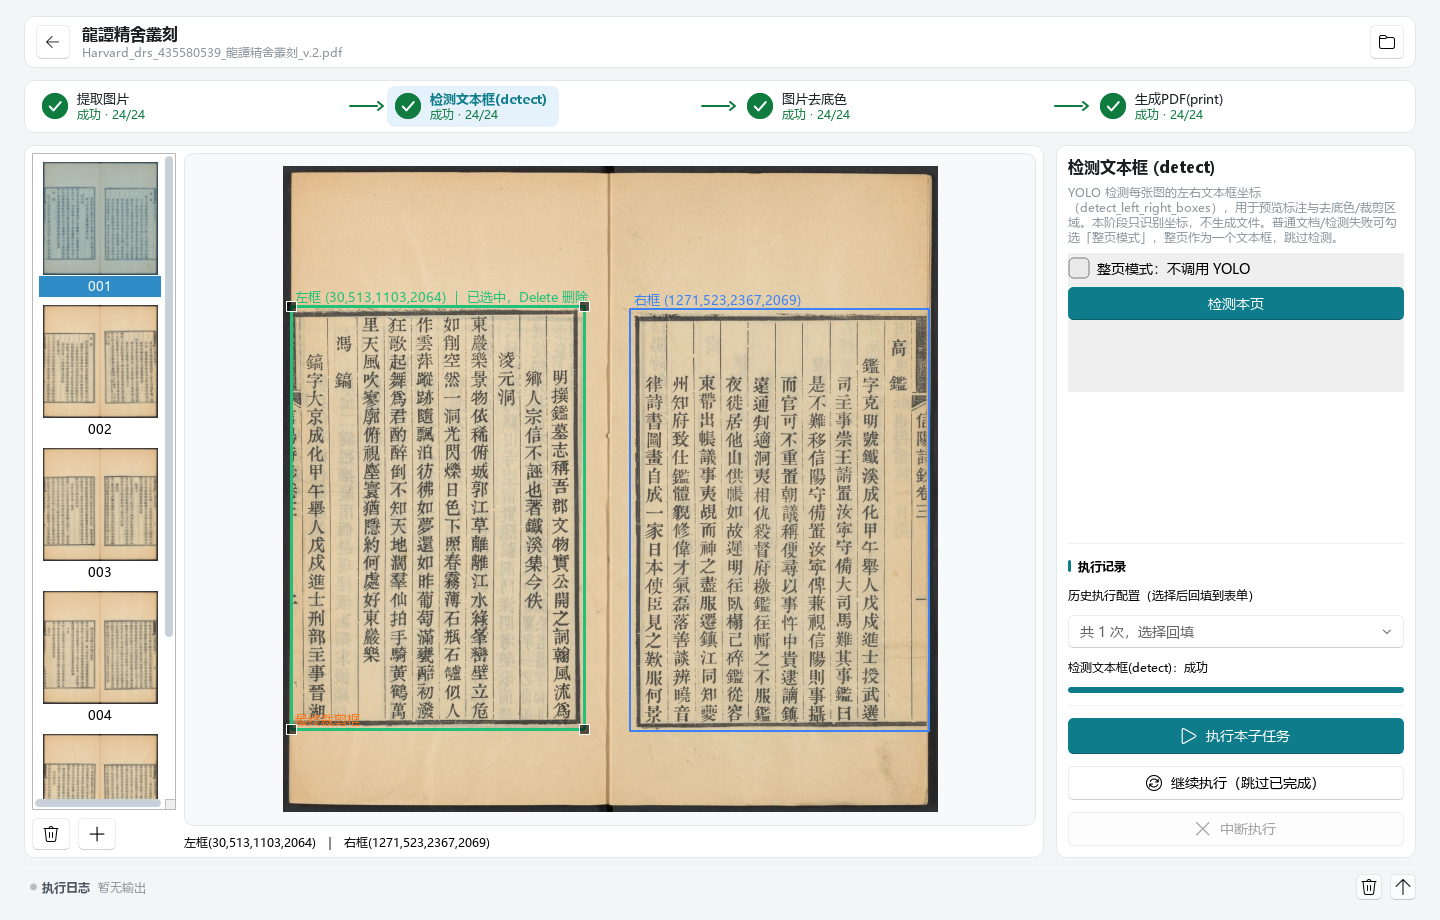
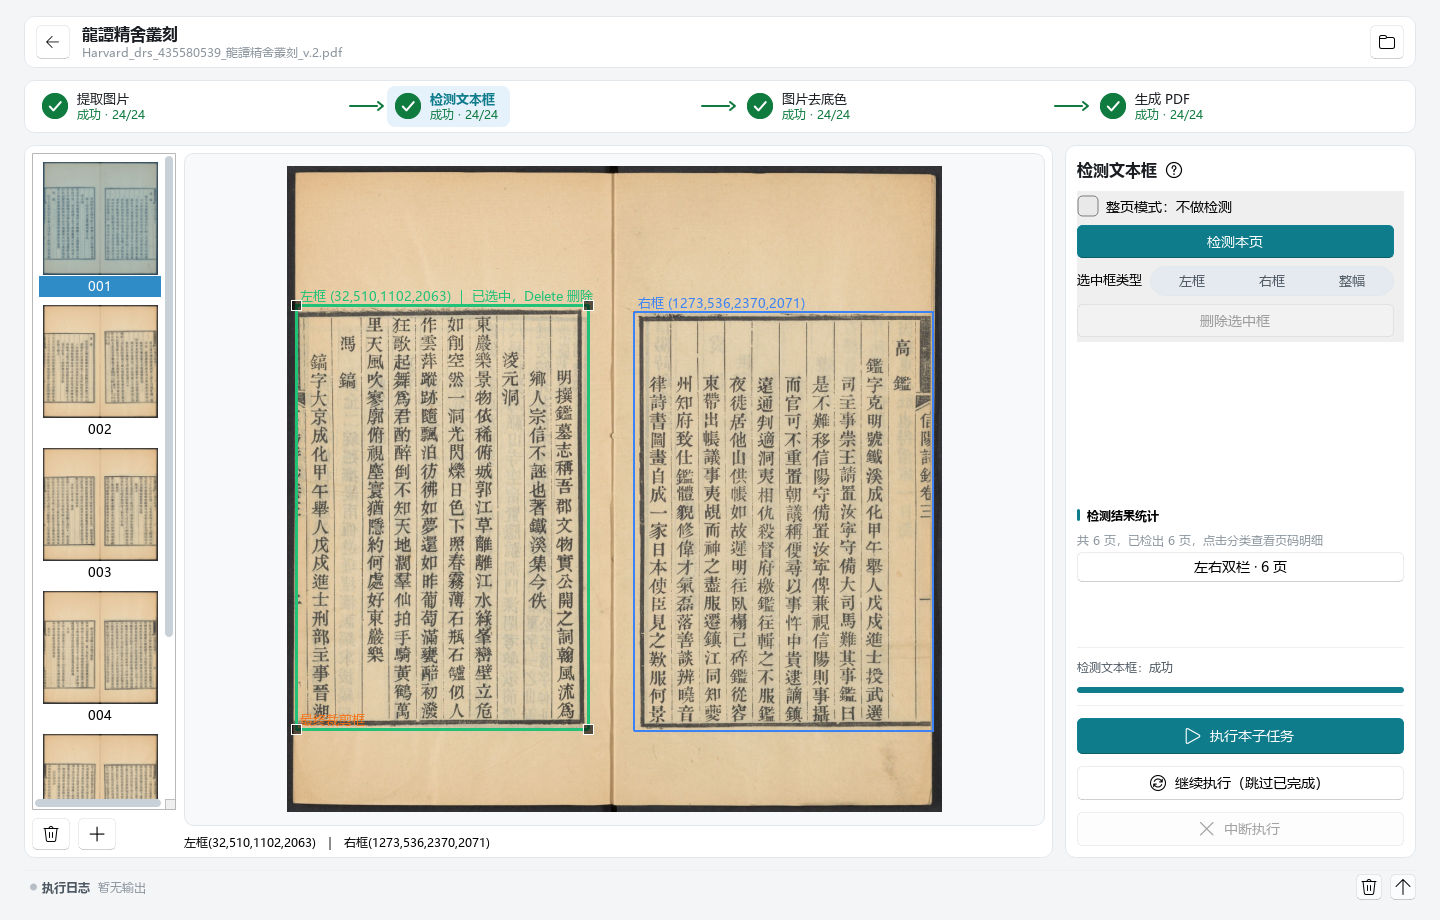
doc: update user guide image

diff --git a/tests/gui_shot.py b/tests/gui_shot.py
@@ -536,6 +536,85 @@ def wait_for_thumbnails(
     return False
 
 
+def wait_view_ready(app, view, timeout: float = 30.0) -> bool:
+    """等异步大图加载完成：选页/改参数会先 clear_image 占位（has_image=False），
+    worker 算完 set_image 后变 True。轮询该判据，避免拍到「正在加载/正在去底色」。
+
+    ⚠ 大图加载是 PreviewWorker 后台线程，只 pump 固定次数会拍到转圈占位文案
+    （s3-去底色-参数 曾因此整张图没有预览内容）。
+    """
+    start = time.time()
+    while time.time() - start < timeout:
+        app.processEvents()
+        time.sleep(0.05)
+        if getattr(view, "has_image", False):
+            app.processEvents()
+            return True
+    print(f"⚠ 大图加载等待超时（{timeout:.0f}s）")
+    return False
+
+
+def wait_view_reload(app, view, timeout: float = 30.0, clear_wait: float = 4.0) -> bool:
+    """等一轮「清空占位 → 重新上屏」完整发生。
+
+    ⚠ 改 rembg 参数走 `LIVE_DEBOUNCE_MS`（350ms）防抖才触发重算——直接等
+    has_image 会被**还没被清掉的旧图**骗过（立即返回 True，拍到旧态/转圈页）。
+    所以必须先见到 clear，再等新图；clear_wait 内始终没清空就当作无重算，
+    以当前图在位为准。
+    """
+    start = time.time()
+    cleared = not getattr(view, "has_image", False)
+    while not cleared and time.time() - start < clear_wait:
+        app.processEvents()
+        time.sleep(0.05)
+        cleared = not getattr(view, "has_image", False)
+    return wait_view_ready(app, view, timeout)
+
+
+def wait_view_settled(app, view, quiet: float = 2.5, timeout: float = 40.0) -> bool:
+    """等到预览视图**稳定**：有图、且 quiet 秒内不再发生「清空 → 重载」。
+
+    ⚠ rembg 参数变化走 350ms 防抖 + live worker + refresh_display 再一层
+    大图 worker，多层异步会连环 clear/上屏；只等「首次有图」会停在中间层，
+    拍到「正在加载...」（真踩过）。这里要求 has_image 保持 quiet 秒才算稳。
+    """
+    start = time.time()
+    last_change = time.time()
+    prev = getattr(view, "has_image", False)
+    while time.time() - start < timeout:
+        app.processEvents()
+        time.sleep(0.05)
+        has = getattr(view, "has_image", False)
+        if has != prev:
+            prev = has
+            last_change = time.time()
+        if prev and (time.time() - last_change) >= quiet:
+            app.processEvents()
+            return True
+    print(f"⚠ 预览稳定等待超时（{timeout:.0f}s）")
+    return prev
+
+
+def _wait_list_rows(app, list_page, repo, timeout: float = 15.0) -> None:
+    """等任务列表的后台读盘 worker（TaskRowsWorker）渲染出数据行。
+
+    真实数据目录可能有几十个任务、逐个读 runs.json，同步 pump 固定次数
+    会拍到空表。分页每页 10 行，行数到位即认为渲染完成。
+    """
+    table = getattr(getattr(list_page, "table", None), "table", None)
+    expected = len(repo.list_tasks()) if repo is not None else 0
+    target = min(expected, 10)
+    start = time.time()
+    while table is not None and time.time() - start < timeout:
+        app.processEvents()
+        time.sleep(0.1)
+        if target and table.rowCount() >= target:
+            app.processEvents()
+            time.sleep(0.4)  # 让状态胶囊/时间列的最后一轮刷新落定
+            return
+    app.processEvents()
+
+
 def _visible_strips(detail) -> list:
     """详情页里当前有内容的缩略图条（供 wait_for_thumbnails 使用）。
 
@@ -559,7 +638,8 @@ def _visible_strips(detail) -> list:
 # --------------------------------------------------------------- 操作步骤截图
 
 def shoot_guide(app, window, out_dir: Path, task_id: str,
-                book_title: str = "龍譚精舍叢刻") -> list[Path]:
+                book_title: str = "龍譚精舍叢刻",
+                list_repo=None, demo_repo=None) -> list[Path]:
     """按「用户操作步骤」逐屏截图，供上手指南引用。
 
     与总览模式的差别：这里刻意**制造交互态**——选中检测框、改 area、
@@ -572,6 +652,10 @@ def shoot_guide(app, window, out_dir: Path, task_id: str,
         out_dir: 输出目录（自动创建）。
         task_id: 演示任务号（全流程完整的那一条）。
         book_title: 第四步表单里填的古籍名（取真实书名）。
+        list_repo: 任务列表页用的数据仓（用户 2026-09-29 定：s0 展示真实
+            `~/Documents/guji` 里已导入的任务，不用 seed 的演示任务）。
+            None 时回退用 window 现有 store。
+        demo_repo: 详情页演示任务的仓（截完列表页换回来）。
 
     返回:
         写出的 PNG 路径列表。
@@ -603,10 +687,19 @@ def shoot_guide(app, window, out_dir: Path, task_id: str,
         print(f"已生成 {path.name}  {('— ' + note) if note else ''}")
 
     # ---- 步骤 0：任务列表页（起点）----
+    # ⚠ 列表页用**真实数据目录**（~/Documents/guji）里已导入的任务（只读展示：
+    #    TaskStore 构造只确保目录存在、refresh 只读盘，绝不写真实数据），
+    #    截完立刻换回演示数据——详情页各阶段需要 seed 铺的产物。
+    if list_repo is not None and demo_repo is not None:
+        window.store = list_repo
+        window.list_page.store = list_repo
     window.pages.setCurrentWidget(window.list_page)
     window.list_page.refresh()
-    pump(app, 10)
+    _wait_list_rows(app, window.list_page, list_repo or window.store)
     snap("s0-任务列表.png", "起点：已导入的任务")
+    if list_repo is not None and demo_repo is not None:
+        window.store = demo_repo
+        window.list_page.store = demo_repo
 
     window._open_detail(task_id)
     pump(app, 12)
@@ -620,7 +713,18 @@ def shoot_guide(app, window, out_dir: Path, task_id: str,
     extract_panel.zoom.setValue(2)
     extract_panel.ext.setCurrentText("png")
     detail.extract_tabs.setCurrentIndex(0)  # 切回 PDF 预览，展示参数与源文件对照
-    snap("s1-提取-参数.png", "第一步：调 zoom / dpi / ext 参数")
+
+    # PDF 预览翻到**第 DEMO_PAGE 页**（默认停在第 1 页——多为封面/空白页，
+    # 读者对不上正文；全手册的图都统一在同一演示页上）。选页是异步加载
+    # （先 clear 再 worker 渲染），必须等完成再截。
+    def _open_pdf_demo_page() -> None:
+        strip = detail.source_pdf_viewer.strip
+        if strip.count() >= DEMO_PAGE:
+            strip.setCurrentRow(DEMO_PAGE - 1)
+            wait_view_ready(app, detail.source_pdf_viewer.view, timeout=20)
+
+    snap("s1-提取-参数.png", "第一步：调 zoom / dpi / ext 参数",
+         before=_open_pdf_demo_page)
 
     # ---- 步骤 2：检测文本框 ----
     detail.extract_tabs.setCurrentIndex(0)
@@ -651,6 +755,11 @@ def shoot_guide(app, window, out_dir: Path, task_id: str,
     def _draw_extra_box() -> None:
         if not inner._boxes:
             return
+        # 半幅页最多左右两个框（超出会被 edit_rejected 拒掉，2026-09-29 起的
+        # 框数上限规则），先删掉右框腾出名额，再在版心下方补画——同时演示
+        # 「删除」与「手绘补充」两个操作，信息条会带「（手动）」说明。
+        if len(inner._boxes) >= 2:
+            del inner._boxes[1]
         # 以已检出的框为参照推算出画面尺寸，避免依赖具体书页尺寸
         xs = [c for box in inner._boxes for c in (box[0], box[2])]
         ys = [c for box in inner._boxes for c in (box[1], box[3])]
@@ -669,16 +778,40 @@ def shoot_guide(app, window, out_dir: Path, task_id: str,
          before=_draw_extra_box)
 
     # ---- 步骤 3：去底色 ----
+    # ⚠ s2 手绘演示把 001 的框**落库**改成了「左框 + 版心下横条」（右框被删、
+    #    横条按位置判为右框），不恢复的话第三步条目 1（001-r）就是那条横条，
+    #    预览与手册「左右分开」的描述完全对不上（真踩过）。这里重跑真实检测
+    #    写回原始框，并清掉内存缓存，再切阶段。
+    if demo_repo is not None:
+        extract_dir = demo_repo.extract_output_dir(task_id)
+        if _write_real_detect_boxes(demo_repo, task_id, extract_dir, [DEMO_PAGE]):
+            detail.detect_cache.clear()
     detail._select_stage(2)
     rembg_panel = detail.control_stack.widget(2)
     rembg_panel.area.setCurrentText("2 (合并单图)")
     rembg_panel.border.setText("20,30")
     rembg_panel.seal.setChecked(True)
     rembg_panel.type.setCurrentText("1 (二值)")
+    # ⚠ 改参数走 350ms 防抖才触发实时预览重算（先「正在按新参数去底色…」
+    #    占位，live worker 算完再 refresh_display → 又一层大图 worker 才上屏）。
+    #    要等视图**稳定**（多层异步连环 clear/上屏），否则拍到旧图/转圈页（真踩过）。
+    wait_view_settled(app, detail.rembg_viewer.view)
     snap("s3-去底色-参数.png", "第三步：area/border/印章参数")
 
     rembg_panel.area.setCurrentText("1 (左右分开)")
-    snap("s3-去底色-结果.png", "第三步：左右分开的去底色结果")
+    wait_view_settled(app, detail.rembg_viewer.view)
+
+    # area=1 后条目按「同页 r 在 l 前」重排，当前行可能停在别的页上
+    # （曾截到与演示页无关的图）。显式选中第一条（= 演示页 001 的右页），
+    # 等它的大图真正加载完再截。
+    def _select_first_rembg_entry() -> None:
+        strip = detail.rembg_viewer.strip
+        if strip.count() > 0:
+            strip.setCurrentRow(0)
+            wait_view_settled(app, detail.rembg_viewer.view)
+
+    snap("s3-去底色-结果.png", "第三步：左右分开的去底色结果",
+         before=_select_first_rembg_entry)
 
     # ---- 步骤 4：生成 PDF ----
     detail._select_stage(3)
@@ -770,6 +903,19 @@ def main() -> int:
     repo = TaskStore(root)
     task_ids = seed(repo)
 
+    # 任务列表页截图用**真实数据目录**里已导入的任务（用户 2026-09-29 定：
+    # 手册里的列表要和读者打开程序看到的一致）。只读展示，不写入；
+    # 目录不存在或没有任务时回退演示列表。
+    real_root = Path.home() / "Documents" / "guji"
+    list_repo = None
+    if real_root.is_dir() and (real_root / "tasks.json").exists():
+        probe = TaskStore(real_root)
+        if probe.list_tasks():
+            list_repo = probe
+            print(f"✓ 任务列表截图取自真实数据目录：{real_root}")
+        else:
+            print("ℹ 真实数据目录没有任务，列表页回退演示数据")
+
     # 演示主角的书名：取任务名（seed 已按真实 PDF 命名），第四步表单与日志都用它
     main_task = repo.get_task(task_ids[0]) or {}
     book_title = main_task.get("name") or "龍譚精舍叢刻"
@@ -787,7 +933,8 @@ def main() -> int:
         window._open_detail(task_ids[0])
         pump(app, 12)
         shots = shoot_guide(
-            app, window, out_dir / "guide", task_ids[0], book_title=book_title
+            app, window, out_dir / "guide", task_ids[0], book_title=book_title,
+            list_repo=list_repo, demo_repo=repo,
         )
         for path in shots:
             print(f"  {path.stat().st_size // 1024} KB")

diff --git a/desktop/pages/taskdetail/detect.py b/desktop/pages/taskdetail/detect.py
@@ -27,6 +27,13 @@ from desktop.utils.files import project_root
 #: 框类型键 → 中文标签。文案的唯一来源是 utils/box_draw（同 BOX_KIND_INDEX）。
 KIND_LABELS = {kind: box_kind_name(kind) for kind in BOX_KIND_INDEX}
 
+#: 信息条尾注：按本次框的来源（origin）标注。⚠ `_apply_boxes` 与
+#: `_show_boxes_info` 必须共用这一份——apply_boxes 的 info_text 也会写
+#: 信息条，两处后缀不一致时后写的会覆盖先写的（曾丢过「（手动）」标记）。
+ORIGIN_SUFFIX = {
+    "manual": "（手动）", "auto": "", "fullpage": "（整页，未检测）",
+}
+
 
 class DetectMixin:
     """依赖宿主页面提供的属性：store/task_id、detect_viewer、log_view、
@@ -268,9 +275,10 @@ class DetectMixin:
         size = self._image_size_for(path_text)
         qsize = QSize(size[0], size[1]) if size else QImageReader(str(path_text)).size()
         names = box_names(shown, size, full)
+        info = self._describe_boxes(shown, names) + ORIGIN_SUFFIX.get(origin, "")
         self._show_boxes_info(shown, origin, names=names)
         self.detect_viewer.apply_boxes(
-            shown, qsize, self._describe_boxes(shown, names),
+            shown, qsize, info,
             full=full, selected=select_index,
         )
 
@@ -476,9 +484,7 @@ class DetectMixin:
         if boxes is None:
             self.detect_viewer.info_label.setText("正在检测文本框位置...")
             return
-        suffix = {
-            "manual": "（手动）", "auto": "", "fullpage": "（整页，未检测）",
-        }.get(origin, "")
+        suffix = ORIGIN_SUFFIX.get(origin, "")
         self.detect_viewer.info_label.setText(
             self._describe_boxes(boxes, names) + suffix
         )

diff --git a/docs/guide/user-guide.md b/docs/guide/user-guide.md
@@ -104,6 +104,20 @@ python desktop.py
 > 整页模式只认**手动框**：此前自动检测留下的旧框不会被沿用，避免「选了整页
 > 却还是旧的检测框」。取消勾选即回到正常检测。
 
+### 检测结果统计：全书页面形态总览
+
+右侧的 **「检测结果统计」** 按**页面形态**给全书分类计数：
+**整幅一栏**（整页一个内容区）、**左右双栏**、**左右单栏**（只有一侧有框）、
+**无文本框**（封面、扉页、空白页等）。摘要行显示「共 N 页，已检出 M 页」，
+页数为 0 的分类不会出现。
+
+- 点某个分类按钮 → 列出该类**每一页的页码**，点页码直接跳到那一页预览；
+- 点标题旁的 **「返回」** 按钮回到总览；
+- 批量检测、单页检测、手动改框、删页之后统计都会**自动重算**。
+
+批量检测完先看一眼统计，就能知道「这本书多少页是双栏、哪几页没检出框」，
+有疑问的页再单独去校正，不必一页页翻。
+
 ### 校正检测框
 
 自动检测难免有偏差，预览区里可以直接改：
@@ -121,7 +135,7 @@ python desktop.py
 
 | 类型             | 怎么决定                                                                                          |
 | ---------------- | ------------------------------------------------------------------------------------------------- |
-| **左框 / 右框**  | 由框的**中心位置**决定：框的中心落在页面中线左边就是左框、右边就是右框；**拖动跨过中线会自动换边** |
+| **左框 / 右框**  | 由框的**中心位置**决定：这一页有多个框时，按中心从左到右排序，**最靠左的是左框、其余是右框**；只有一个框时，看它的中心在中线的左边还是右边。**拖动或缩放后随时重判**——框的相对位置变了，左右身份会自动互换 |
 | **整幅**         | 整页只有一个内容区时用。**显式选择**——选过之后无论怎么拖动、缩放都还是整幅，不会被位置改判        |
 
 一页只有两种形态，两者**互斥**：
@@ -141,7 +155,8 @@ python desktop.py
 ![手绘补充框](screenshots/guide/s2-检测-手绘补充框.png)
 
 上图在版心下方空白处手绘了补充框，信息条末尾会追加一条带「（手动）」的说明
-——**手动框带「（手动）」标记**。它**不会被后续自动检测覆盖**，可以放心调整。
+——**手动框带「（手动）」标记**。它**不会被后续自动检测覆盖**，可以放心调整
+（新框画在已有左框的右侧，所以按位置自动判为右框）。
 
 > 大多数情况下**不需要**在这一步手动改框：如果第三、四步的效果已经满意，直接跳过本阶段的
 > 手动调整即可。
@@ -354,5 +369,5 @@ python desktop.py
 | 某一步失败（胶囊变红）           | 打开日志浮层看红字，常见是源文件被移动/权限不足；修正后重跑该步即可            |
 | 手动改的框消失了                 | 手动框（标「手动」）不会被自动结果覆盖；若整页被重新批量检测，请确认改的是当前页 |
 | 画不出新框、提示「框数已达上限」 | 半幅页最多左右两个框、整幅页只有一个。先删掉多余的框，或把「整幅」改成左框/右框再画 |
-| 点「左框/右框」没反应            | 左框/右框按框的**中心位置**自动判定：把框拖到页面的另一半就会换边（整幅才是手动选的类型） |
+| 点「左框/右框」没反应            | 左框/右框由框的**中心位置**自动判定（多个框时最靠左的是左框）：把框挪得比另一个框更靠左或更靠右，身份就会互换（整幅才是手动选的类型） |
 | 左侧缩略图一排排发白、像没加载完 | 多半是这一页的页面尺寸记录异常，导致检测框越界裁白；重跑该步的检测后重开任务即可 |
